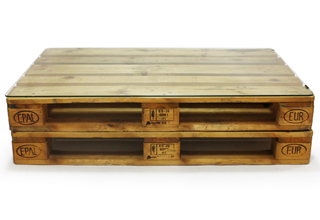
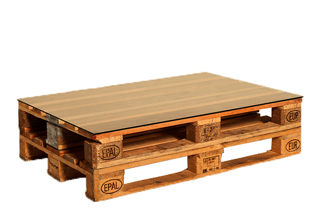
Release 1.0

diff --git a/assets/css/recoopero.css b/assets/css/recoopero.css
@@ -2,12 +2,27 @@
 
 
     body {
-      padding-bottom: 40px;
       color: #5a5a5a;
       padding-top: 20px;
 
       font-family: "Helvetica Neue", "Sintony", sans-serif;
     }
+
+      .precio {
+        font-size: 5em;
+      }
+
+      .featurette-divider {
+        padding-top: 20px;
+        padding-bottom: 20px;
+      }
+
+
+      .well {
+        box-shadow: inset 0px 0px 0px 1px rgba(0,0,0,0.2),
+                inset 0px -6px 0px 0px rgba(0,0,0,0.3),
+              inset 0px 2px 0px 0px rgba(255,255,255,0.5);
+      }
 
       .thumbnail {
         border:none;
@@ -35,7 +50,6 @@
      .pull-center {
       text-align: center;
       position: relative; ;
-      float: right;
      } 
 
       /* Custom container */
@@ -53,7 +67,7 @@
         text-align: center;
       }
       .jumbotron h1 {
-        font-size: 60px;
+        font-size: 50px;
         line-height: 1;
       }
       .jumbotron .btn {
@@ -188,12 +202,10 @@
 
 
       #footer {
-        background-color: #f4f4f4;
-        min-height: 100%;
-        height: 150px !important;
-        height: 100%;
-        /* Negative indent footer by it's height */
-        margin: 0px auto -60px;
+         position:relative;
+        bottom:0;
+        width:100%;
+        height:80px;
 
       }
 
@@ -384,14 +396,87 @@
       .featurette-image.pull-right {
         display: block;
         float: none;
-        max-width: 40%;
+        /*max-width: 40%;*/
         margin: 0 auto 20px;
       }
+      
+      .precio {
+        text-align: center;
+      }
+
+      .featurette .lead {
+        text-align: center;
+      }
+
+      .featurette-image{
+        width: auto;
+        height: auto;
+      }
+
+      .featurette-heading {
+        text-align: center;
+      }  
+
+      .btn-madera {
+        text-align: center; 
+        display: block;
+        transition: all ease-in-out 0.3s;
+      }  
+
+
     }
 
 
-    @media (max-width: 767px) {
+    @media (max-width: 525px) {
 
+      .precio {
+        font-size: 2.5em;
+        text-align: center;
+      }
+
+      .featurette .lead {
+        font-size: 14px;
+        line-height: 1.3;
+        text-align: center;
+      }
+
+      .featurette-image{
+        width: auto;
+        height: auto;
+      }
+
+      .featurette-heading {
+        text-align: center;
+      }
+
+      .lead {
+        font-size: 14px;
+        line-height: 120%;
+      }
+
+      .jumbotron h1 {
+        font-size: 30px;
+        line-height: 120%;
+      }
+      
+      .btn-madera {
+        margin: 25px;
+        padding: 25px;
+        font-size: 1.7em;
+        transition: all ease-in-out 0.3s;
+      }
+
+      .btn-maderita {
+        padding: 5px;
+        font-size: 0.8em;
+        transition: all ease-in-out 0.3s;
+      }
+      
+      .nav-pills > li > a {
+        padding: 5px;
+        font-size: 0.8em;
+
+      }
       .navbar-inner {
         margin: -20px;
       }

diff --git a/sofa-pinus.html b/sofa-pinus.html
@@ -50,8 +50,8 @@
 
       <div class="featurette">
         <img class="featurette-image pull-left" src="assets/img/productes/sofa2.png">
-        <h2 class="featurette-heading">Sofà recoopero Pinus.<span class="muted"><br>Palets 100% reciclats.</span></h2><br>
-        <h1 style="font-size:5.0em;"> desde 100€</h1>
+        <h2 class="featurette-heading">Sofà recoopero Pinus.<span class="muted"><br>Palets de fusta de pi 100% reciclats.</span></h2><br>
+        <h1 class="precio">desde 100€</h1>
         <a  class="btn-madera wood" href="#compra">Encarrega'l</a>
       </div>
 
@@ -59,8 +59,8 @@
 
       <div class="featurette">
         <img class="featurette-image pull-left" src="assets/img/productes/sofa3.png">
-        <h2 class="featurette-heading">Disseny contemporani.<span class="muted"><br>Comoditat absoluta.</span></h2>
-        <p class="lead">Disfruta d'una becaina, una lectura o simplement descansa còmodament amb el sofà recoopero Pinus. Dissenyat per el nostre equip de dissenyadors, aquest sofà es pot utilitzar tant a en exteriors com en interiors. Pots afegir-li rodes, o coixins per acabar d'arrodonir-lo. </p>
+        <h2 class="featurette-heading">Disseny contemporani.<span class="muted"><br>Artesanalment elaborat.</span></h2>
+        <p class="lead">Disfruta d'una becaina, una lectura o simplement descansa còmodament amb el sofà recoopero Pinus. Dissenyat per el nostre equip, aquest sofà es pot utilitzar tant a en exteriors com en interiors. Pots afegir-li coixins per acabar d'arrodonir-lo i fer d'aquest el teu millor espai. </p>
       </div>
 
       <hr class="featurette-divider">
@@ -173,15 +173,16 @@
       <hr class="featurette-divider">
 
       <!-- FOOTER -->
-      <footer>
-    <div id="footer" class="wood">
+       <center>
+        <footer>
+      <div id="footer" class="wood">
       <div class="container-narrow">
         <div class="pull-center">
         <a  class="btn-maderita wood pull-center" href="contacta.html">Contacta</a>
         <a  class="btn-maderita wood pull-center" href="sobre-nosaltres.html">Sobre nosaltres</a>
         <a  class="btn-maderita wood pull-center" href="productes.html">Productes</a>
         </div>
-        <a href="index.html"><img style="margin-top:40px" src="assets/img/recofooter.png"></a>
+      </center>
         
       </div>
     </div>

diff --git a/contacta.html b/contacta.html
@@ -10,7 +10,7 @@
     <!-- Le styles -->
     <link href="assets/css/bootstrap.css" rel="stylesheet">
     <link href="assets/css/bootstrap-responsive.css" rel="stylesheet">
-    <link href="assets/css/recoopero.css" rel="stylesheet">ç
+    <link href="assets/css/recoopero.css" rel="stylesheet">
     <link href='http://fonts.googleapis.com/css?family=Sintony:400,700' rel='stylesheet' type='text/css'>
 
     <!-- HTML5 shim, for IE6-8 support of HTML5 elements -->
@@ -56,25 +56,26 @@
 
       <div class="featurette">
         <img class="featurette-image pull-left" src="assets/img/recooperologo3.png">
-        <h2 class="featurette-heading">Recoopero.<span class="muted"><br>Ecodisseny i reinsercció laboral.</span></h2>
-        <p class="lead"> <b>Contacte telefònic:</b> <br> De 10.00 a 14.00h i de 17.00 a 21.00h de dilluns a dissabte.
+        <h2 class="featurette-heading">Recoopero.<span class="muted" style="font-size:0.7em"><br>Ecodisseny i reinsercció laboral.</span></h2>
+        <p class="lead"><b>Contacte telefònic:</b> <br> 93 464 48 83 <br> De 10.00 a 14.00h i de 17.00 a 21.00h de dilluns a dissabte.
         <br><b>Contacte via email:</b><br>recoopero@gmail.com
       </div>
 
-      <hr class="featurette-divider">
+      <hr class="featurette-divider" style="margin-top: 50px";>
 
     </div>
 
       <!-- FOOTER -->
-      <footer>
-    <div id="footer" class="wood">
+       <center>
+        <footer>
+      <div id="footer" class="wood">
       <div class="container-narrow">
         <div class="pull-center">
         <a  class="btn-maderita wood pull-center" href="contacta.html">Contacta</a>
         <a  class="btn-maderita wood pull-center" href="sobre-nosaltres.html">Sobre nosaltres</a>
         <a  class="btn-maderita wood pull-center" href="productes.html">Productes</a>
         </div>
-        <a href="index.html"><img style="margin-top:40px" src="assets/img/recofooter.png"></a>
+      </center>
         
       </div>
     </div>

diff --git a/index.html b/index.html
@@ -50,7 +50,7 @@
     
     <div class="container-narrow">
         <div class="jumbotron">
-        <img src="assets/img/marketing/sofa1.png">
+        <img src="assets/img/marketing/sofa2.png">
         <h1>Mobles medioambiental i socialment sostenibles</h1>
         <p class="lead">Mobles amb consciencia social, fets amb materials 100% reciclats per gent amb risc d'exclusió laboral. Així que, quan compris un dels nostres productes, no només rebràs un moble de disseny, sinó que també estaràs creant un lloc de treball. <br><h2 class="muted">Gràcies</h2></p>
           <a  class="btn-madera wood" href="sofa-pinus.html">Encarrega'l ara</a>
@@ -120,15 +120,16 @@
     </div>
 
       <!-- FOOTER -->
-      <footer>
-    <div id="footer" class="wood">
+       <center>
+        <footer>
+      <div id="footer" class="wood">
       <div class="container-narrow">
         <div class="pull-center">
         <a  class="btn-maderita wood pull-center" href="contacta.html">Contacta</a>
         <a  class="btn-maderita wood pull-center" href="sobre-nosaltres.html">Sobre nosaltres</a>
         <a  class="btn-maderita wood pull-center" href="productes.html">Productes</a>
         </div>
-        <a href="index.html"><img style="margin-top:40px" src="assets/img/recofooter.png"></a>
+      </center>
         
       </div>
     </div>

diff --git a/taula-pinus.html b/taula-pinus.html
@@ -169,15 +169,17 @@
       <hr class="featurette-divider">
 
       <!-- FOOTER -->
-      <footer>
-    <div id="footer" class="wood">
+      <!-- FOOTER -->
+       <center>
+        <footer>
+      <div id="footer" class="wood">
       <div class="container-narrow">
         <div class="pull-center">
         <a  class="btn-maderita wood pull-center" href="contacta.html">Contacta</a>
         <a  class="btn-maderita wood pull-center" href="sobre-nosaltres.html">Sobre nosaltres</a>
         <a  class="btn-maderita wood pull-center" href="productes.html">Productes</a>
         </div>
-        <a href="index.html"><img style="margin-top:40px" src="assets/img/recofooter.png"></a>
+      </center>
         
       </div>
     </div>

diff --git a/productes.html b/productes.html
@@ -83,15 +83,16 @@
       <hr class="featurette-divider">
 
       <!-- FOOTER -->
-      <footer>
-    <div id="footer" class="wood">
+       <center>
+        <footer>
+      <div id="footer" class="wood">
       <div class="container-narrow">
         <div class="pull-center">
         <a  class="btn-maderita wood pull-center" href="contacta.html">Contacta</a>
         <a  class="btn-maderita wood pull-center" href="sobre-nosaltres.html">Sobre nosaltres</a>
         <a  class="btn-maderita wood pull-center" href="productes.html">Productes</a>
         </div>
-        <a href="index.html"><img style="margin-top:40px" src="assets/img/recofooter.png"></a>
+      </center>
         
       </div>
     </div>

diff --git a/sobre-nosaltres.html b/sobre-nosaltres.html
@@ -85,15 +85,16 @@
     </div>
 
       <!-- FOOTER -->
-      <footer>
-    <div id="footer" class="wood">
+       <center>
+        <footer>
+      <div id="footer" class="wood">
       <div class="container-narrow">
         <div class="pull-center">
         <a  class="btn-maderita wood pull-center" href="contacta.html">Contacta</a>
         <a  class="btn-maderita wood pull-center" href="sobre-nosaltres.html">Sobre nosaltres</a>
         <a  class="btn-maderita wood pull-center" href="productes.html">Productes</a>
         </div>
-        <a href="index.html"><img style="margin-top:40px" src="assets/img/recofooter.png"></a>
+      </center>
         
       </div>
     </div>
